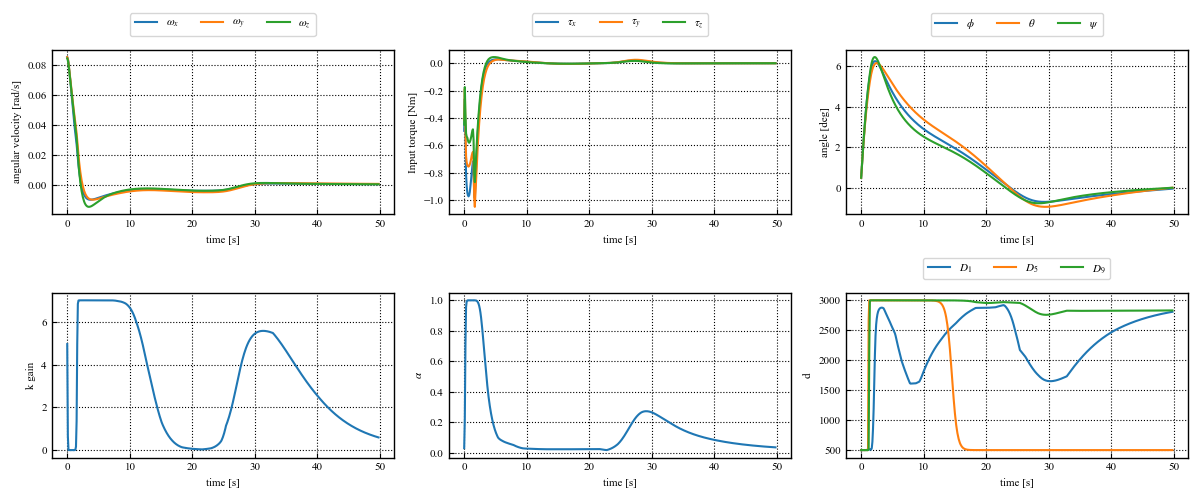
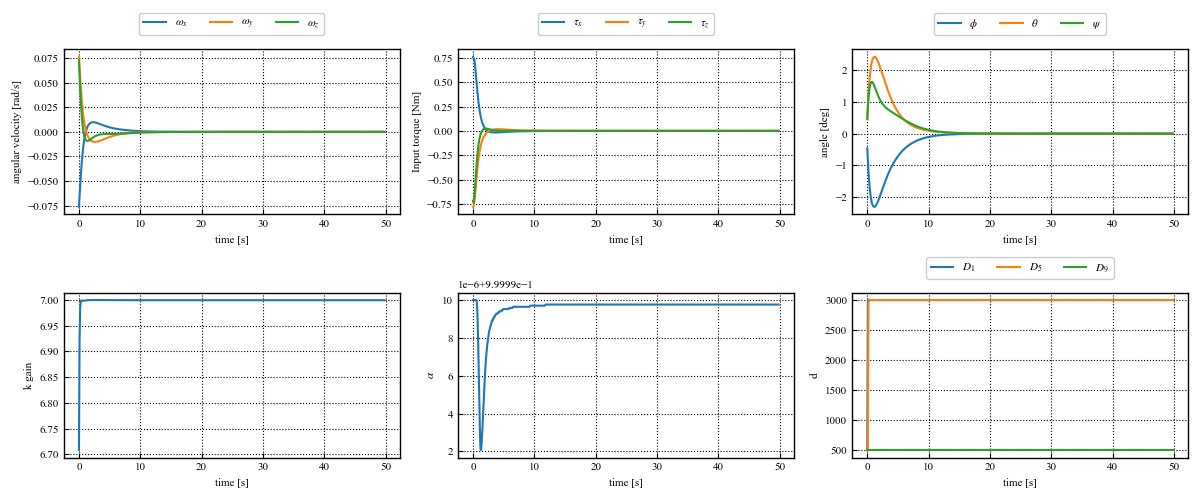
UPDATE: fix multi

diff --git a/td3/environment.py b/td3/environment.py
@@ -311,7 +311,7 @@ class SatelliteContinuousEnv(gym.Env):
         self.inertia = np.array([[2.683, 0.0, 0.0], \
                                 [0.0, 2.683, 0.0], \
                                 [0.0, 0.0, 1.897]])
-        self.multi = np.random.randint(100,self.max_multi*100)/100
+        self.multi = 3#np.random.randint(100,self.max_multi*100)/100
         self.tg_inertia = self.inertia*self.multi
         self.est_th = self.inertia.flatten()*self.multi/25#np.diag(self.inertia)
         # self.est_th = (self.multi*np.diag(self.inertia))/((self.max_multi+1)*np.diag(self.inertia))
